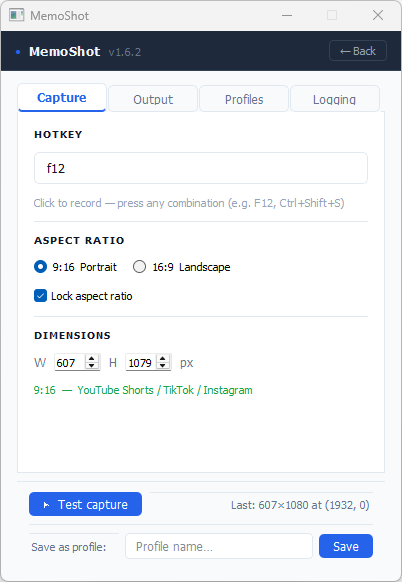
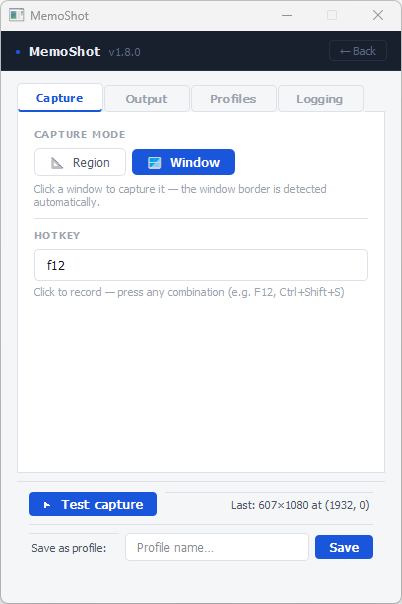
v1.8.0 - UI polish

diff --git a/src/ui/main_window.py b/src/ui/main_window.py
@@ -632,7 +632,9 @@ class PortraitScreenshotApp(QMainWindow):
         layout.setSpacing(12)
 
         # ── Capture mode selector ─────────────────────────────────────────────
+        layout.setSpacing(0)   # manual spacing throughout for full control
         layout.addWidget(self._section_label("Capture mode"))
+        layout.addSpacing(8)
         mode_row = QHBoxLayout()
         mode_row.setSpacing(6)
         self.mode_group = QButtonGroup()
@@ -653,6 +655,7 @@ class PortraitScreenshotApp(QMainWindow):
             mode_row.addWidget(btn)
         mode_row.addStretch()
         layout.addLayout(mode_row)
+        layout.addSpacing(6)
 
         mode_desc = QLabel()
         mode_desc.setStyleSheet(STYLE_LABEL_MUTED)
@@ -660,26 +663,35 @@ class PortraitScreenshotApp(QMainWindow):
         self._mode_desc_label = mode_desc
         layout.addWidget(mode_desc)
 
+        layout.addSpacing(10)
         layout.addWidget(self._divider())
+        layout.addSpacing(10)
 
         # ── Hotkey ────────────────────────────────────────────────────────────
         layout.addWidget(self._section_label("Hotkey"))
+        layout.addSpacing(8)
         self.hotkey_input = HotkeyCapture(self.settings["hotkey"])
         self.hotkey_input.installEventFilter(self)
         layout.addWidget(self.hotkey_input)
+        layout.addSpacing(4)
         hint = QLabel("Click to record — press any combination (e.g. F12, Ctrl+Shift+S)")
         hint.setStyleSheet(STYLE_LABEL_MUTED)
         hint.setWordWrap(True)
         layout.addWidget(hint)
 
         # ── Region-only settings (hidden for other modes) ─────────────────────
+        # No margins on the container itself — the outer layout's spacing (12px)
+        # provides the gap above. Internal spacing matches the outer layout so
+        # sections feel consistent whether region settings are visible or not.
         self._region_settings_widget = QWidget()
         rsl = QVBoxLayout(self._region_settings_widget)
         rsl.setContentsMargins(0, 0, 0, 0)
-        rsl.setSpacing(12)
+        rsl.setSpacing(0)   # manual spacing via addSpacing() for full control
 
         rsl.addWidget(self._divider())
+        rsl.addSpacing(10)
         rsl.addWidget(self._section_label("Aspect ratio"))
+        rsl.addSpacing(8)
         ratio_row = QHBoxLayout()
         self.ratio_group = QButtonGroup()
         self.ratio_9_16 = QRadioButton("9:16  Portrait")
@@ -695,6 +707,7 @@ class PortraitScreenshotApp(QMainWindow):
         ratio_row.addWidget(self.ratio_16_9)
         ratio_row.addStretch()
         rsl.addLayout(ratio_row)
+        rsl.addSpacing(6)
 
         self.lock_ratio_checkbox = QCheckBox("Lock aspect ratio")
         self.lock_ratio_checkbox.setChecked(self.settings.get("lock_ratio", True))
@@ -702,8 +715,11 @@ class PortraitScreenshotApp(QMainWindow):
         self.lock_ratio_checkbox.stateChanged.connect(self._schedule_auto_save)
         rsl.addWidget(self.lock_ratio_checkbox)
 
+        rsl.addSpacing(10)
         rsl.addWidget(self._divider())
+        rsl.addSpacing(10)
         rsl.addWidget(self._section_label("Dimensions"))
+        rsl.addSpacing(8)
         dim_row = QHBoxLayout()
         dim_row.setSpacing(8)
         for lbl_text, attr, on_change in [
@@ -728,6 +744,7 @@ class PortraitScreenshotApp(QMainWindow):
         dim_row.addWidget(px_lbl)
         dim_row.addStretch()
         rsl.addLayout(dim_row)
+        rsl.addSpacing(4)
 
         self.ratio_label = QLabel()
         self.ratio_label.setStyleSheet(STYLE_LABEL_HINT)

diff --git a/src/version.py b/src/version.py
@@ -1,1 +1,1 @@
-__version__ = "1.7.0"
+__version__ = "1.8.0"

diff --git a/CHANGELOG.md b/CHANGELOG.md
@@ -6,6 +6,8 @@ Versions follow [Semantic Versioning](https://semver.org/spec/v2.0.0.html).
 
 ---
 
+## [1.8.0] — UX improvements & polish
+
 ## [1.7.0] — UX improvements & polish
 
 ### Added
